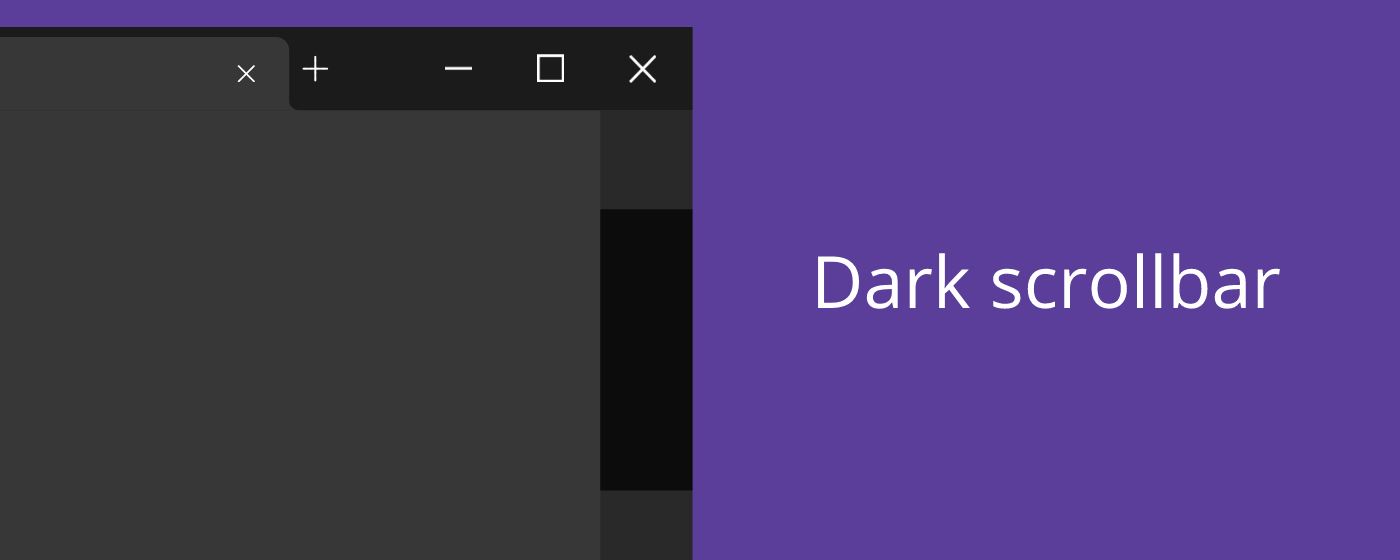
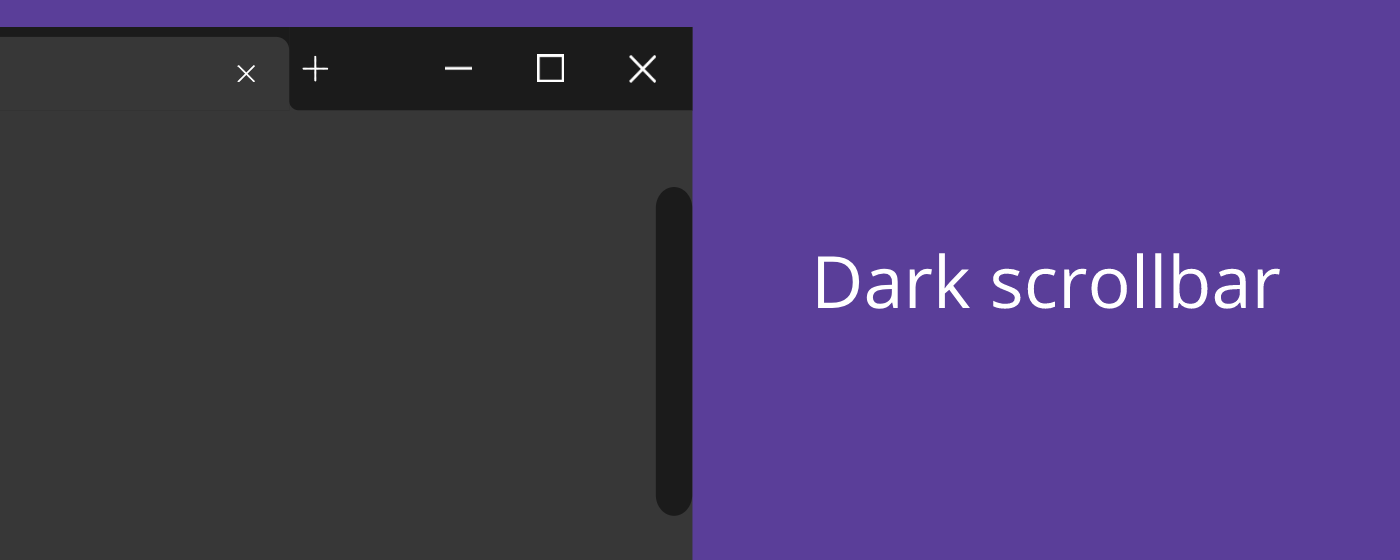
New scrollbar style

Changed region(s): [[0.43, 0.3643, 0.4914, 0.8804]]

diff --git a/page.html b/page.html
@@ -8,34 +8,19 @@
 
 <body>
     <h1 style="text-align: center;">Modern scrollbar</h1>
-    <table>
+    <table style="height: 120px;margin-left:auto;margin-right:auto;">
         <tbody>
             <tr>
-                <td style="width: 250px;">&nbsp;</td>
-                <td style="width: 211px; text-align: center;">
-                    <h1>Light mode</h1>
-                </td>
-                <td style="width: 257px; text-align: center;">
-                    <h1>Dark mode</h1>
-                </td>
-            </tr>
-            <tr>
-                <td style="width: 250px; text-align: center;">
+                <td style="width: 261px; text-align: center;">
                     <h1>Old</h1>
                 </td>
-                <td style="width: 211px;">&nbsp;<img src="../images/old-light.PNG" alt="old (light mode)" />
-                </td>
-                <td style="width: 257px;">&nbsp;<img src="../images/old-dark.PNG" alt="old (dark mode)" />
+                <td style="width: 261px; text-align: center;">
+                    <h1><strong>New</strong></h1>
                 </td>
             </tr>
             <tr>
-                <td style="width: 250px; text-align: center;">
-                    <h1>New</h1>
-                </td>
-                <td style="width: 211px;">&nbsp;<img src="../images/new-light.PNG" alt="new (light mode)" />
-                </td>
-                <td style="width: 257px;">&nbsp;<img src="../images/new-dark.PNG" alt="new (dark mod)" />
-                </td>
+                <td style="width: 261px; text-align: center;"><img src="images/old.PNG" alt="" width="581" height="501" /></td>
+                <td style="width: 261px;"><img src="images/new.PNG" alt="" width="581" height="501" /></td>
             </tr>
         </tbody>
     </table>

diff --git a/css/styles.css b/css/styles.css
@@ -1,17 +1,29 @@
 ::-webkit-scrollbar {
-    height: 15px;
-    width: 15px;
-    background: rgba(127, 127, 127, 0.1);
-    overflow: overlay
+    width: 8px;
+    height: 8px;
+}
+
+ ::-webkit-scrollbar-track {
+    opacity: 0;
 }
 
 ::-webkit-scrollbar-thumb {
-    background: rgba(127, 127, 127, 0.6);    
+    border-radius: 4px;
+    background: rgba(127, 127, 127, 0.6);
 }
 
-::-webkit-scrollbar-thumb:horizontal:hover{
-    background-color: rgba(95, 91, 91, 0.7);
+::-webkit-scrollbar-thumb:horizontal:hover {
+    background-color: rgb(110, 110, 110);
 }
-::-webkit-scrollbar-thumb:vertical:hover { 
-    background-color: rgba(95, 91, 91, 0.7);
- }
+
+::-webkit-scrollbar-thumb:vertical:hover {
+    background-color: rgb(110, 110, 110);
+}
+
+ ::-webkit-scrollbar-thumb:vertical:active {
+    background: rgba(95, 91, 91, 1);
+}
+
+ ::-webkit-scrollbar-corner {
+    background: none;
+}

diff --git a/README.md b/README.md
@@ -6,7 +6,6 @@ Modern scrollbar to Chromium
     <img src="images/microsoft-store.png" height="100px" url="/" alt="Get it from Microsoft" />
 </a>
 
-|				      | Light mode                 | Dark mode                 |
-|-------------| -------------------------- | ------------------------- |
-| Old			    | ![](images/old-light.PNG)  | ![](images/old-dark.PNG)  |
-| <b>New</b>	| ![](images/new-light.PNG)  | ![](images/new-dark.PNG)  |
+| Old style                  | New style                 |
+| -------------------------- | ------------------------- |
+| ![](images/old.PNG)  | ![](images/new.PNG)  |
